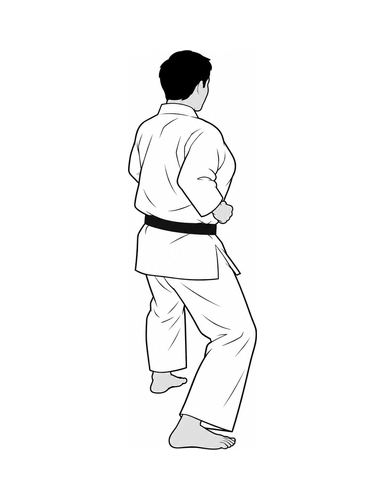
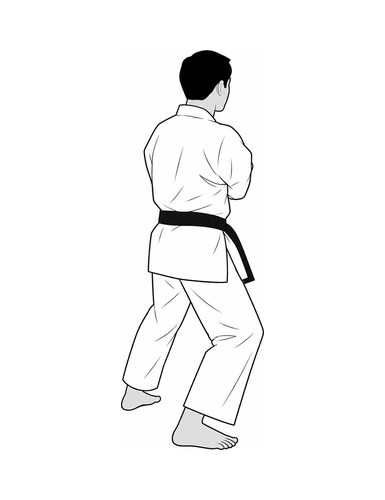
fix: heian yondan pictures corrections

Changed region(s): [[0.3117, 0.09, 0.6857, 0.9]]

diff --git a/app/data/heian-yondan.ts b/app/data/heian-yondan.ts
@@ -33,11 +33,12 @@ export const HEIAN_YONDAN: Kata = {
           name: "kaishu haiwan-uke",
           type: Type.BLOCK,
           side: Side.HIDARI,
+          target: Target.JODAN,
         },
       ],
       index: "1",
       orientation: Orientation.W,
-      note: "rotate 90 degrees left and step left",
+      note: "rotate 90 degrees left and move left foot forward",
       isSlow: true,
     },
     {
@@ -47,6 +48,7 @@ export const HEIAN_YONDAN: Kata = {
           name: "kaishu haiwan-uke",
           type: Type.BLOCK,
           side: Side.MIGI,
+          target: Target.JODAN,
         },
       ],
       index: "2",
@@ -113,11 +115,13 @@ export const HEIAN_YONDAN: Kata = {
           name: "yoko ke-age",
           type: Type.HATEMI,
           side: Side.HIDARI,
+          target: Target.CHUDAN,
         },
         {
           name: "yoko-mawashi uraken-uchi",
           type: Type.HATEMI,
           side: Side.HIDARI,
+          target: Target.CHUDAN,
         },
       ],
       index: "6b",
@@ -149,6 +153,7 @@ export const HEIAN_YONDAN: Kata = {
           name: "mae empi-uchi",
           type: Type.HATEMI,
           side: Side.MIGI,
+          target: Target.CHUDAN
         },
       ],
       index: "6",
@@ -187,11 +192,13 @@ export const HEIAN_YONDAN: Kata = {
           name: "yoko ke-age",
           type: Type.HATEMI,
           side: Side.MIGI,
+          target: Target.CHUDAN,
         },
         {
           name: "yoko-mawashi uraken-uchi",
           type: Type.HATEMI,
           side: Side.MIGI,
+          target: Target.CHUDAN,
         },
       ],
       index: "8b",
@@ -223,6 +230,7 @@ export const HEIAN_YONDAN: Kata = {
           name: "mae empi-uchi",
           type: Type.HATEMI,
           side: Side.HIDARI,
+          target: Target.CHUDAN
         },
       ],
       index: "8",
